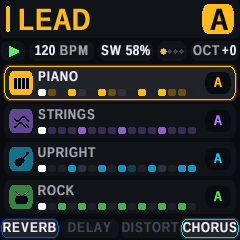
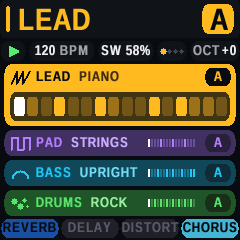
Home as colour pills (the chosen track open with its steps); the sound and kit browsers with a picture tile
- Home: a pill a track in its colour (its sign, name, sound, pattern); the chosen one lit and opened out with its 16
  steps big, the others slim with a thin strip; the pedals along the bottom filled with their colours when on
- INSTR / KIT: the type's picture (mountains, rings, blocks, dots), the type, group and USER slot as pills, the
  group's sounds as pills
- Pedal pages, the pedal board and the step recorder as they were
- Guide, user guide and screenshots updated

diff --git a/docs/index.html b/docs/index.html
@@ -106,8 +106,8 @@ footer a { color: var(--sub); }
     <p class="note">Press <kbd>PLAY</kbd> as soon as it starts: a short demo groove is loaded in pattern A of each track.</p>
   </div>
   <div class="screen">
-    <img src="guide/home.png" alt="QUARTET's home screen: a card per track in its colour, the chosen one glowing, its pedals along the bottom">
-    <p>The home screen: a card per track, the chosen one glowing; its pedals along the bottom.</p>
+    <img src="guide/home.png" alt="QUARTET's home screen: a colour pill per track, the chosen one open with its steps, its pedals along the bottom">
+    <p>The home screen: a pill per track, the chosen one open with its 16 steps; its pedals along the bottom.</p>
   </div>
 </div>
 
@@ -157,7 +157,7 @@ footer a { color: var(--sub); }
 
 <section id="band">
   <h2>The band</h2>
-  <p class="sub">Four tracks, each a card in the colour of what it plays (gold lead, violet pad, cyan bass, green drums) with its instrument on the badge: keys, waves, a bass guitar, a drum. The chosen card glows; a muted track turns red.</p>
+  <p class="sub">Four tracks, each a pill in the colour of what it plays (gold lead, violet pad, cyan bass, green drums) with its sign: a sawtooth, an arch, a square wave, dots. The chosen track's pill lights up and opens out; a muted track turns red.</p>
   <div class="split">
     <div>
       <table class="t">
@@ -179,7 +179,7 @@ footer a { color: var(--sub); }
         <div class="card"><h4>KNOB 2</h4><p>Swing, for the whole song: 50 % (straight) to 66 % (a heavy shuffle), a click a step; <b>SW</b> on the line under the title.</p></div>
         <div class="card"><h4>PLAY</h4><p>Every track starts together from step one, or stops.</p></div>
       </div>
-      <p>Each card shows the track's sound, the steps of its pattern (the one playing white) and the pattern in a pill. <b>A&gt;C</b> means pattern C is queued after A: it starts when A comes round. The bottom line shows the chosen track's four pedals, glowing in their colours when on.</p>
+      <p>Each pill shows the track's name, its sound and its pattern; the chosen one opens out with the 16 steps of the page it is playing, big (the step playing white), the others show theirs as a thin strip. <b>A&gt;C</b> means pattern C is queued after A: it starts when A comes round. The bottom line shows the chosen track's four pedals, filled with their colours when on.</p>
     </div>
     <div>
       <div class="shot"><img src="guide/slots.png" alt="The home screen with two leads, L1 and L2"><p>Two leads: the PAD slot switched to LEAD.</p></div>
@@ -223,7 +223,7 @@ footer a { color: var(--sub); }
   <div class="split" style="margin-top:28px">
     <div>
       <h3>The sound editor (<kbd>EDIT</kbd>)</h3>
-      <p>Press <kbd>EDIT</kbd> for the SOUND page of the chosen track. It opens on <b>INSTR</b>, with the track's slot on top (<b>SLOT 1</b>&ndash;<b>4</b>, as on the home screen, and its type beside it): a sound browser with the type at the top left (<kbd>KNOB 1</kbd>: lead, pad or bass), the groups under it (<kbd>KNOB 2</kbd>; an empty USER group is dimmed), the chosen group's sounds on the right (<kbd>KNOB 3</kbd>) with the one playing glowing, and underneath the USER slot to save to (<kbd>KNOB 4</kbd>). <kbd>ALGORITHM</kbd> chooses the page, <kbd>KNOB 1&ndash;4</kbd> edit it, <kbd>SELECT</kbd> moves to another track. <kbd>EDIT</kbd> again opens the <a href="#chain">signal chain</a>; <kbd>HOME</kbd> goes back.</p>
+      <p>Press <kbd>EDIT</kbd> for the SOUND page of the chosen track. It opens on <b>INSTR</b>, with the track's slot on top (<b>SLOT 1</b>&ndash;<b>4</b>, as on the home screen, and its type beside it): a sound browser with a picture for the type on the left (mountains for lead, rings for pad, blocks for bass, dots for drums), under it the type (<kbd>KNOB 1</kbd>: lead, pad or bass) and the group (<kbd>KNOB 2</kbd>) as pills and the USER slot to save to (<kbd>KNOB 4</kbd>); on the right the group's sounds as pills (<kbd>KNOB 3</kbd>), the one playing filled in the track's colour. <kbd>ALGORITHM</kbd> chooses the page, <kbd>KNOB 1&ndash;4</kbd> edit it, <kbd>SELECT</kbd> moves to another track. <kbd>EDIT</kbd> again opens the <a href="#chain">signal chain</a>; <kbd>HOME</kbd> goes back.</p>
       <table class="t grid4">
         <tr><th>Page</th><th>KNOB 1</th><th>KNOB 2</th><th>KNOB 3</th><th>KNOB 4</th></tr>
         <tr><td>INSTR</td><td>Type: lead, pad, bass</td><td>Group</td><td>Sound in the group</td><td>USER slot to save to</td></tr>
@@ -240,7 +240,7 @@ footer a { color: var(--sub); }
       <p>Tweak the sound, go to <b>INSTR</b> (or <b>KIT</b>), choose a USER slot with <kbd>KNOB 4</kbd> and press <kbd>REC</kbd> <b>twice</b> (the bottom line asks first). <b>SAVED USER 3</b> shows, and the track now plays your sound from the USER bank. Saving over a used slot replaces it. The USER bank is kept with your work and inside each saved project, and <i>clear all</i> leaves it alone.</p>
     </div>
     <div>
-      <div class="shot"><img src="guide/instr.png" alt="The INSTR page"><p>INSTR: groups on the left, the group's sounds on the right.</p></div>
+      <div class="shot"><img src="guide/instr.png" alt="The INSTR page"><p>INSTR: the type's picture, the type and group, the sounds.</p></div>
       <div class="shot" style="margin-top:18px"><img src="guide/editor.png" alt="The OSC page"><p>OSC: two pulse waves.</p></div>
       <div class="shot" style="margin-top:18px"><img src="guide/kit.png" alt="The KIT page"><p>Drums: the KIT page.</p></div>
       <div class="shot" style="margin-top:18px" id="chain"><img src="guide/chain.png" alt="The signal chain"><p>The signal chain: <kbd>EDIT</kbd> twice.</p></div>

diff --git a/firmware/src/quartet.c b/firmware/src/quartet.c
@@ -790,6 +790,89 @@ static void logo4(int32_t x, int32_t y)          /* QUARTET's mark: four slanted
     for (i = 0; i < 4u; i++)
         for (r = 0; r < 14; r++) cv_rect(x + (int32_t)i * 6 + (13 - r) / 3, y + r, 3, 1, rgbk(TRK_RGB[ORD[i]], 100));
 }
+static const char *text_fit(const char *s, int32_t maxw)   /* s cut to fit maxw pixels (FONT_S) */
+{
+    static char b[4][24];
+    static uint32_t n;
+    char *o = b[n++ & 3u];
+    uint32_t i = 0;
+    while (s[i] && i < 23u) { o[i] = s[i]; i++; }
+    o[i] = 0;
+    while (i > 1u && text_w(&FONT_S, o) > maxw) o[--i] = 0;
+    return o;
+}
+static void disc(int32_t cx, int32_t cy, int32_t r, uint16_t c);
+static void disc_clip(int32_t cx, int32_t cy, int32_t r, int32_t x0, int32_t y0, int32_t x1, int32_t y1, uint16_t c)
+{                                               /* a filled circle, only what falls inside x0..x1, y0..y1 */
+    int32_t dy;
+    for (dy = -r; dy <= r; dy++) {
+        int32_t yy = cy + dy, h, a, b;
+        if (yy < y0 || yy >= y1) continue;
+        h = isqrt_small(r * r - dy * dy);
+        a = cx - h < x0 ? x0 : cx - h;
+        b = cx + h >= x1 ? x1 - 1 : cx + h;
+        if (b >= a) cv_rect(a, yy, b - a + 1, 1, c);
+    }
+}
+static void thick(int32_t x0, int32_t y0, int32_t x1, int32_t y1, uint16_t c)   /* a line two pixels wide */
+{
+    cv_line(x0, y0, x1, y1, c); cv_line(x0 + 1, y0, x1 + 1, y1, c); cv_line(x0, y0 + 1, x1, y1 + 1, c);
+}
+static void glyph4(uint32_t kind, int32_t x, int32_t y, int32_t w, int32_t h, uint16_t c, uint16_t bg)
+{                                               /* a type's sign: 0 a sawtooth, 1 an arch, 2 a square wave, 3 dots */
+    int32_t a = w * 3 / 10, b = w * 65 / 100;
+    switch (kind & 3u) {
+    case 0: thick(x, y + h, x + a, y, c); thick(x + a, y, x + a, y + h, c); thick(x + a, y + h, x + b, y, c);
+            thick(x + b, y, x + b, y + h, c); thick(x + b, y + h, x + w, y, c); break;
+    case 1: disc_clip(x + w / 2, y + h, w / 2, x - 1, y - 1, x + w + 2, y + h, c);
+            disc_clip(x + w / 2, y + h, w / 2 - 2, x - 1, y - 1, x + w + 2, y + h, bg); break;
+    case 2: a = w / 3; b = w * 2 / 3;
+            thick(x, y + h, x, y, c); thick(x, y, x + a, y, c); thick(x + a, y, x + a, y + h, c); thick(x + a, y + h, x + b, y + h, c);
+            thick(x + b, y + h, x + b, y, c); thick(x + b, y, x + w, y, c); thick(x + w, y, x + w, y + h, c); break;
+    default: disc(x + w / 5, y + h / 3, w / 6, c); disc(x + w * 3 / 4, y + h / 4, w / 8, c);
+             disc(x + w / 2, y + h * 3 / 4, w / 5, c); disc(x + w * 9 / 10, y + h * 4 / 5, w / 10, c); break;
+    }
+}
+static void art4(uint32_t kind, int32_t x, int32_t y, int32_t w, int32_t h, const uint8_t *rgb)
+{                                               /* a picture tile in a colour: 0 mountains, 1 rings, 2 blocks, 3 dots */
+    static const uint8_t R1[7] = {100, 35, 70, 20, 62, 30, 55}, R2[6] = {100, 55, 85, 45, 70, 100};   /* the ridges (% down) */
+    uint16_t base = rgbm(rgb, 30), lo = rgbm(rgb, 62), md = rgbk(rgb, 100), hi = rgbl(rgb, 30);
+    int32_t i, k, x0 = x + 3, y0 = y + 3, x1 = x + w - 3, y1 = y + h - 3;
+    cv_rrect(x, y, w, h, 9, base);
+    switch (kind & 3u) {
+    case 0:                                     /* two ridges of mountains, the near one brighter */
+        for (i = x0; i < x1; i++) {
+            int32_t f = (i - x0) * 6 * 256 / (x1 - x0), s = f >> 8, r = f & 255, t1, t2;
+            if (s > 5) s = 5;
+            t1 = R1[s] + ((R1[s + 1] - R1[s]) * r >> 8);
+            f = (i - x0) * 5 * 256 / (x1 - x0); s = f >> 8; r = f & 255;
+            if (s > 4) s = 4;
+            t2 = R2[s] + ((R2[s + 1] - R2[s]) * r >> 8);
+            cv_rect(i, y0 + (y1 - y0) * t1 / 100, 1, (y1 - y0) * (100 - t1) / 100, lo);
+            cv_rect(i, y0 + (y1 - y0) * t2 / 100, 1, (y1 - y0) * (100 - t2) / 100, md);
+        }
+        break;
+    case 1:                                     /* three rings rising from the bottom */
+        for (k = 0; k < 3; k++)
+            disc_clip(x + w / 2, y1, (x1 - x0) * (62 - k * 16) / 100, x0, y0, x1, y1, k == 0 ? lo : k == 1 ? md : hi);
+        break;
+    case 2: {                                   /* blocks on a 4 x 4 grid */
+        static const uint8_t B[6][3] = {{0, 3, 0}, {1, 2, 1}, {2, 1, 2}, {3, 0, 1}, {1, 3, 0}, {2, 2, 0}};
+        int32_t q = (x1 - x0) / 4, r = (y1 - y0) / 4;
+        for (k = 0; k < 6; k++) cv_rrect(x0 + B[k][0] * q, y0 + B[k][1] * r, q, r, 2, B[k][2] == 0 ? lo : B[k][2] == 1 ? md : hi);
+        break;
+    }
+    default: {                                  /* dots of all sizes */
+        int32_t ww = x1 - x0, hh = y1 - y0, m = ww < hh * 2 ? ww : hh * 2;
+        disc(x0 + ww * 28 / 100, y0 + hh * 34 / 100, m * 13 / 100, md);
+        disc(x0 + ww * 72 / 100, y0 + hh * 30 / 100, m * 9 / 100, hi);
+        disc(x0 + ww * 50 / 100, y0 + hh * 68 / 100, m * 15 / 100, md);
+        disc(x0 + ww * 86 / 100, y0 + hh * 76 / 100, m * 6 / 100, lo);
+        disc(x0 + ww * 14 / 100, y0 + hh * 78 / 100, m * 6 / 100, hi);
+        break;
+    }
+    }
+}
 static void disc(int32_t cx, int32_t cy, int32_t r, uint16_t c)   /* a filled circle */
 {
     int32_t dy;
@@ -900,9 +983,11 @@ static void bottom_pedals(uint32_t trk)         /* home's bottom line: the chose
         while (nm[n] && n < 13u) { sh[n] = nm[n]; n++; }
         sh[n] = 0;
         while (n > 1u && text_w(&FONT_S, sh) > w - 1) sh[--n] = 0;   /* (as much of the name as fits) */
-        if (on) glow_card(x, 3, w, 19, 7, ped_rgb(d), C_PANEL2);   /* (on: it glows in the pedal's colour) */
-        else cv_rrect(x, 3, w, 19, 7, C_PANEL);
-        cv_text_bg(x + w / 2 - text_w(&FONT_S, sh) / 2, 4, &FONT_S, sh, on ? C_TXT : C_DIMC, on ? C_PANEL2 : C_PANEL);
+        {
+            uint16_t pc = on ? rgbk(ped_rgb(d), 100) : RGB(34, 34, 42);   /* (on: filled with the pedal's colour) */
+            cv_rrect(x, 3, w, 19, 9, pc);
+            cv_text_bg(x + w / 2 - text_w(&FONT_S, sh) / 2, 4, &FONT_S, sh, on ? C_BG : RGB(90, 90, 104), pc);
+        }
     }
     cv_blit(0, Y_BOT);
 }
@@ -1050,76 +1135,53 @@ static uint32_t syn_covers(uint32_t t, uint32_t pt, uint32_t s, uint32_t len)   
     return 0;
 }
 
-/* the home view: a card a track, LEAD PAD BASS DRUMS: a badge in its colour (its short name), its sound, the steps of
- * the page it is on (the step playing white), its pattern in a pill. The chosen card glows; a muted one is grey */
-static void icon_inst(int32_t x, int32_t y, uint32_t ty, uint16_t c)   /* an instrument, 16 x 14, in colour c */
-{
-    static const int8_t WAVE[15] = {0, 1, 2, 2, 2, 1, 0, -1, -2, -2, -2, -1, 0, 1, 2};
-    int32_t i;
-    switch (ty) {
-    case T_LEAD:                                /* a keyboard: four white keys, three black ones over them */
-        for (i = 0; i < 4; i++) cv_rect(x + 1 + i * 4, y + 2, 3, 11, c);
-        break;
-    case T_PAD:                                 /* two waves */
-        for (i = 0; i < 15; i++) { cv_rect(x + 1 + i, y + 4 + WAVE[i], 1, 2, c); cv_rect(x + 1 + i, y + 10 + WAVE[(i + 3) % 15], 1, 2, c); }
-        break;
-    case T_BASS:                                /* a bass guitar: the neck, the body */
-        cv_line(x + 14, y + 1, x + 6, y + 9, c); cv_line(x + 15, y + 1, x + 7, y + 9, c);
-        cv_rect(x + 13, y, 3, 2, c);
-        disc(x + 5, y + 10, 4, c); disc(x + 8, y + 8, 3, c);
-        break;
-    default:                                    /* a drum: the shell, two sticks over it */
-        cv_rrect(x + 2, y + 6, 13, 8, 3, c);
-        cv_line(x + 2, y + 1, x + 8, y + 6, c); cv_line(x + 15, y + 1, x + 9, y + 6, c);
-        break;
-    }
-}
+/* the home view: a pill a track, LEAD PAD BASS DRUMS (as on the screen) in its colour: its sign, its name, its sound,
+ * its pattern. The chosen track's pill is bright and opens out with the 16 steps of the page it is on (the step playing
+ * white); the others are slim, with a little strip of their steps. A muted track turns red */
 static uint32_t slot_nth(uint32_t t);
-#define H_HOME 152                              /* home's cards: down to the bottom bar (two halves of 76) */
+#define H_HOME 152                              /* home's pills: down to the bottom bar (two halves of 76) */
 static void draw_home(uint32_t sel, uint32_t run)
 {
-    uint32_t r, s, pass, half;
+    uint32_t r, s, half;
     for (half = 0; half < 2u; half++) {
-    cv_begin(240, H_HOME / 2, C_BG);
-    cv_oy = -(int32_t)half * (H_HOME / 2);
-    for (pass = 0; pass < 2u; pass++)           /* (the chosen card last: its glow over the gap) */
+        int32_t y = 0;
+        cv_begin(240, H_HOME / 2, C_BG);
+        cv_oy = -(int32_t)half * (H_HOME / 2);
         for (r = 0; r < NTRK; r++) {
             uint32_t t = SEQ_ORDER[r], me = t == sel;
-            int32_t y = (int32_t)r * 38 + 2, pw, sw, x0 = 38, x1;
             uint32_t pt = play_pat[t] % NPAT, len = pat_len(t, pt), pos = trk_pos[t], page = run ? pos / PAGE : 0u;
             const uint8_t *rgb = trk_rgb(t);
-            uint16_t col = rgbk(rgb, 100), card = me ? C_PANEL2 : C_PANEL, bdg = me ? col : rgbm(rgb, 55);
-            const char *nm = (t < NSYN ? sound_name(TTYPE(t), set.snd[t].preset) : kit_name());
+            uint16_t col = rgbk(rgb, 100), bg = me ? col : rgbm(rgb, 34), ink = me ? C_BG : col;
+            uint16_t sub = me ? rgbm(rgb, 22) : rgbl(rgb, 35);
+            int32_t h = me ? 62 : 26, pw, nx, lim;
             char lt[4], *q;
-            if (me != pass) continue;
             q = put_pat(lt, t); *q = 0;
-            if (me) glow_card(4, y, 232, 34, 8, rgb, card);
-            else cv_rrect(4, y, 232, 34, 8, card);
-            cv_rrect(9, y + 5, 24, 24, 6, bdg);
-            icon_inst(13, y + 10, TTYPE(t), C_BG);   /* (what it plays) */
-            if (slot_nth(t)) {                  /* two of a kind: L1, L2 before the sound */
-                int32_t nx = cv_text_bg(x0, y + 3, &FONT_S, slot_short(t), col, card);
-                cv_text_bg(nx + 5, y + 3, &FONT_S, nm, me ? C_TXT : C_SUB, card);
-            } else cv_text_bg(x0, y + 3, &FONT_S, nm, me ? C_TXT : C_SUB, card);
+            cv_rrect(4, y, 232, h, 10, bg);
+            glyph4(TTYPE(t), 11, y + 7, 18, 12, ink, bg);
+            nx = cv_text_bg(36, y + 5, &FONT_S, slot_name(t), ink, bg);
             pw = text_w(&FONT_S, lt) + 12;
             if (pw < 26) pw = 26;
-            cv_rrect(231 - pw, y + 6, pw, 22, 8, C_BG);
-            cv_text_bg(231 - pw / 2 - text_w(&FONT_S, lt) / 2, y + 9, &FONT_S, lt, col, C_BG);
-            x1 = 231 - pw - 6;
-            sw = (x1 - x0) / 16;
-            for (s = 0; s < PAGE; s++) {        /* the page's 16 steps, a little bar each */
+            lim = me ? 231 - pw - 6 : 145;
+            cv_text_bg(nx + 8, y + 5, &FONT_S, text_fit(t < NSYN ? sound_name(TTYPE(t), set.snd[t].preset) : kit_name(), lim - nx - 8),
+                       sub, bg);
+            cv_rrect(231 - pw, y + 4, pw, 18, 7, me ? C_BG : rgbm(rgb, 18));
+            cv_text_bg(231 - pw / 2 - text_w(&FONT_S, lt) / 2, y + 5, &FONT_S, lt, col, me ? C_BG : rgbm(rgb, 18));
+            if (me) cv_rrect(10, y + 28, 220, 29, 7, rgbm(rgb, 24));   /* (the chosen: its steps, big) */
+            for (s = 0; s < PAGE; s++) {
                 uint32_t st = page * PAGE + s, on = 0;
                 uint16_t sc;
                 if (st >= len) continue;
                 if (t == T_DRUMS) { uint32_t d; for (d = 0; d < NDR; d++) on |= dbit(pt, d, st); on *= 2u; }
                 else on = syn_covers(t, pt, st, len);
-                sc = on == 2u ? (me ? col : rgbm(rgb, 75)) : on == 1u ? rgbm(rgb, me ? 40u : 30u) : s % 4u ? C_EMPTY : C_EMPTY4;
-                if (run && st == pos) sc = on ? C_WHITE : C_HEADC;
-                cv_rrect(x0 + (int32_t)s * sw, y + 23, sw - 2, 7, 2, sc);
+                sc = on == 2u ? col : on == 1u ? rgbm(rgb, 60) : rgbm(rgb, me ? 42u : 55u);
+                if (run && st == pos) sc = C_WHITE;
+                if (me) cv_rrect(14 + (int32_t)(s * 27u / 2u), y + 33, 11, 19, 3, sc);
+                else cv_rect(148 + (int32_t)s * 3, y + 9, 2, 8, on || (run && st == pos) ? sc : rgbm(rgb, 58));
             }
+            y += h + 4;
         }
-    cv_oy = 0;
-    cv_blit(0, Y_VIEW + half * (H_HOME / 2));
+        cv_oy = 0;
+        cv_blit(0, Y_VIEW + half * (H_HOME / 2));
     }
 }
 
@@ -1708,58 +1770,48 @@ static void draw_instr(uint32_t trk)
 {
     static const char *const TAB[NPAGE + 1u] = {"INSTR", "MAIN", "OSC", "ENV", "LFO"};
     static const char *const DTAB[NDR + 1u] = {"KIT", "BD", "SD", "HH", "OH", "CP", "PC"};
-
     static const uint16_t YEL = RGB(255, 200, 60);
     const uint8_t *rgb = trk_rgb(trk);
-    uint16_t col = rgbk(rgb, 100);
+    uint16_t col = rgbk(rgb, 100), dim = RGB(28, 28, 34);
     uint8_t ids[40], sub[40];
-    uint32_t now = trk < NSYN ? set.snd[trk].preset : set.dkit, bk = id_bank(trk, now), n, m = 0, at = 0, i, half, top, b;
-    uint32_t ntab = trk < NSYN ? NPAGE + 1u : NDR + 1u, inb[NBANK] = {0, 0, 0, 0, 0};
+    uint32_t now = trk < NSYN ? set.snd[trk].preset : set.dkit, bk = id_bank(trk, now), n, m = 0, at = 0, i, half, top;
+    uint32_t ntab = trk < NSYN ? NPAGE + 1u : NDR + 1u;
     const char *const *bkn = trk < NSYN ? BANK_NAME[TTYPE(trk)] : KBANK_NAME;
     uint32_t used = trk < NSYN ? set.mu.ub.snd[TTYPE(trk)][usr_slot % NUSND].preset != 0u : set.mu.ub.kit[usr_slot % NUKIT].used != 0u;
-    char ty[16], us[16], *p;
+    char ty[16], gr[20], us[16], *p;
     n = trk < NSYN ? sound_list(TTYPE(trk), ids, now) : kit_list(ids, now);
-    for (i = 0; i < n; i++) {
-        if (id_bank(trk, ids[i]) < NBANK) inb[id_bank(trk, ids[i])]++;
-        if (id_bank(trk, ids[i]) == bk) { if (ids[i] == now) at = m; sub[m++] = ids[i]; }
-    }
-    top = at > 2u ? at - 2u : 0u;               /* the list: seven of the bank's sounds, the one playing among them */
-    if (m >= 7u && top + 7u > m) top = m - 7u;
-    if (m < 7u) top = 0;
-    if (trk < NSYN) { p = put(ty, "< "); p = put(p, (TYPE_NAME[TTYPE(trk)])); *put(p, " >") = 0; } else *put(ty, "DRUMS") = 0;
+    for (i = 0; i < n; i++) if (id_bank(trk, ids[i]) == bk) { if (ids[i] == now) at = m; sub[m++] = ids[i]; }
+    top = at > 2u ? at - 2u : 0u;               /* the list: six of the group's sounds, the one playing among them */
+    if (m >= 6u && top + 6u > m) top = m - 6u;
+    if (m < 6u) top = 0;
+    if (trk < NSYN) { p = put(ty, "< "); p = put(p, TYPE_NAME[TTYPE(trk)]); *put(p, " >") = 0; } else *put(ty, "DRUMS") = 0;
+    p = put(gr, "< "); p = put(p, bk < NBANK ? bkn[bk] : "OLDER"); *put(p, " >") = 0;
     if (usr_ask) { p = put(us, "SAVE U"); *p++ = (char)('1' + usr_slot); *p++ = '?'; *p = 0; }
-    else { p = put(us, "U"); *p++ = (char)('1' + usr_slot); p = put(p, used ? " USED" : " EMPTY"); *p = 0; }
+    else { p = put(us, "SAVE U"); *p++ = (char)('1' + usr_slot); p = put(p, used ? " *" : ""); *p = 0; }
     for (half = 0; half < 2u; half++) {
         cv_begin(240, H_PEDAL / 2, C_BG);
         cv_oy = -(int32_t)half * (H_PEDAL / 2);
         for (i = 0; i < ntab; i++) {            /* the pages, as pills, INSTR lit */
             int32_t tw = 232 / (int32_t)ntab, tx = 4 + (int32_t)i * tw;
             const char *tn = trk < NSYN ? TAB[i] : DTAB[i];
-            cv_rrect(tx + 1, 2, tw - 3, 20, 10, i == 0u ? col : C_PANEL);
-            cv_text_bg(tx + tw / 2 - 1 - text_w(&FONT_S, tn) / 2, 4, &FONT_S, tn, i == 0u ? C_BG : C_SUB, i == 0u ? col : C_PANEL);
+            cv_rrect(tx + 1, 2, tw - 3, 20, 10, i == 0u ? col : dim);
+            cv_text_bg(tx + tw / 2 - 1 - text_w(&FONT_S, tn) / 2, 4, &FONT_S, tn, i == 0u ? C_BG : C_SUB, i == 0u ? col : dim);
         }
-        cv_rrect(4, 28, 80, 134, 8, C_PANEL);   /* the banks (K2); the type (K1); the USER slot (K4) */
-        cv_rrect(8, 32, 72, 16, 8, C_BG);        /* K1: the type */
-        cv_text_bg(44 - text_w(&FONT_S, ty) / 2, 32, &FONT_S, ty, trk < NSYN ? C_TXT : C_SUB, C_BG);
-        for (b = 0; b < NBANK; b++) {           /* K2: the groups, then USER */
-            int32_t y = 53 + (int32_t)b * 18;
-            uint32_t me = b == bk;
-            if (me) glow_card(8, y, 72, 16, 6, rgb, C_PANEL2);
-            cv_text_bg(44 - text_w(&FONT_S, bkn[b]) / 2, y, &FONT_S, bkn[b], me ? C_TXT : inb[b] ? C_SUB : C_DIMC, me ? C_PANEL2 : C_PANEL);
-        }
-        cv_rrect(8, 146, 72, 16, 8, usr_ask ? YEL : C_BG);
-        cv_text_bg(44 - text_w(&FONT_S, us) / 2, 146, &FONT_S, us, usr_ask ? C_BG : used ? C_TXT : C_SUB, usr_ask ? YEL : C_BG);
-        cv_rrect(88, 28, 148, 134, 8, C_PANEL); /* the bank's sounds (K3) */
-        for (i = 0; i < 7u && top + i < m; i++) {
+        art4(TTYPE(trk), 4, 26, 86, 62, rgb);  /* the type's picture */
+        cv_rrect(4, 92, 86, 18, 9, rgbm(rgb, 30));   /* K1 the type, K2 the group */
+        cv_text_bg(47 - text_w(&FONT_S, ty) / 2, 93, &FONT_S, ty, trk < NSYN ? col : rgbl(rgb, 30), rgbm(rgb, 30));
+        cv_rrect(4, 113, 86, 18, 9, col);
+        cv_text_bg(47 - text_w(&FONT_S, text_fit(gr, 82)) / 2, 114, &FONT_S, text_fit(gr, 82), C_BG, col);
+        cv_rrect(4, 136, 86, 22, 11, usr_ask ? YEL : C_BG);   /* K4 the USER slot (REC twice: save) */
+        if (!usr_ask) { cv_rrect(4, 136, 86, 22, 11, col); cv_rrect(5, 137, 84, 20, 10, C_BG); }
+        cv_text_bg(47 - text_w(&FONT_S, us) / 2, 139, &FONT_S, us, usr_ask ? C_BG : col, usr_ask ? YEL : C_BG);
+        for (i = 0; i < 6u && top + i < m; i++) {   /* K3: the group's sounds */
             uint32_t id = sub[top + i], me = top + i == at;
-            int32_t y = 33 + (int32_t)i * 18;
-            const char *nm = (trk < NSYN ? sound_name(TTYPE(trk), id) : kit_name_id(id));
-            if (me) {
-                glow_card(92, y, 140, 17, 5, rgb, C_PANEL2);
-                cv_line(212, y + 9, 215, y + 4, col); cv_line(215, y + 4, 218, y + 13, col);   /* (a little wave) */
-                cv_line(218, y + 13, 221, y + 5, col); cv_line(221, y + 5, 224, y + 9, col);
-            }
-            cv_text_bg(100, y, &FONT_S, nm, me ? C_TXT : C_SUB, me ? C_PANEL2 : C_PANEL);
+            int32_t y = 26 + (int32_t)i * 22;
+            const char *nm = trk < NSYN ? sound_name(TTYPE(trk), id) : kit_name_id(id);
+            cv_rrect(94, y, 142, 20, 10, me ? col : dim);
+            cv_text_bg(104, y + 2, &FONT_S, text_fit(nm, me ? 104 : 124), me ? C_BG : RGB(200, 200, 212), me ? col : dim);
+            if (me) glyph4(TTYPE(trk), 213, y + 6, 15, 8, C_BG, col);
         }
         cv_oy = 0;
         cv_blit(0, Y_PEDAL + half * (H_PEDAL / 2));

diff --git a/docs/USER_GUIDE.md b/docs/USER_GUIDE.md
@@ -9,11 +9,11 @@ Quartet is a four-track groovebox with **lead, pads/chords, bass and drums**, 72
 
 ## Instruments and home screen
 
-**Lead** (gold) plays melodies; **pads** (violet) plays pads and chords; **bass** (cyan) plays basslines; **drums** (green) has six percussion voices. Each home card shows its instrument (keys, waves, a bass guitar, a drum). Muted instruments turn red.
+**Lead** (gold) plays melodies; **pads** (violet) plays pads and chords; **bass** (cyan) plays basslines; **drums** (green) has six percussion voices. Each home pill shows its sign (a sawtooth, an arch, a square wave, dots). Muted instruments turn red.
 
 Turn **SELECT** to choose an instrument and **ALGORITHM** to choose its sound or drum kit (one click per choice, through every group in turn; the new sound's name shows, without playing a test note). Play the keys; for drums, the first six white keys play the six sounds. **OCT− / OCT+** change octave (held half a second they move the whole pattern you're editing down or up an octave) and **MASTER** sets overall volume. **PLAY** starts or stops all instruments from step one.
 
-The **home screen** shows the selected instrument and pattern (A–J), tempo, beat lights and octave, then a card per track: its badge, its sound, the steps of its pattern (the playing step white) and its pattern. The chosen card glows. The bottom line shows the chosen track's four pedals, glowing in their colours when on. **A > C** means pattern C is queued after A.
+The **home screen** shows the selected instrument and pattern (A–J), tempo, beat lights and octave, then a pill per track in its colour: its sign, its name, its sound and its pattern. The chosen track's pill lights up and opens out with the 16 steps of the page it is playing (the playing step white); the others show theirs as a thin strip. The bottom line shows the chosen track's four pedals, filled with their colours when on. **A > C** means pattern C is queued after A.
 
 ![Quartet screens](screens.png)
 
@@ -104,7 +104,7 @@ Each type has its own sounds: a slot switched to BASS chooses from the bass soun
 
 The drum kits are synthesised, except the **LM-1**, which plays samples of a real Linn LM-1; on it the CLAP and PERC keys are its **low and high toms** (TL / TH on the drum grid). PERC is a different instrument per kit: a conga on CR-78, a shaker on Mini Pops and 606, a high tom on 808 and a low tom on Lo-Fi.
 
-**Press EDIT** for the **SOUND** page, the in-depth sound editor for the chosen instrument (the button lights). It opens on the **INSTR** page, with the track's slot on top (**SLOT 1–4**, as on the home screen, its type beside it): a sound browser with the type at the top left (**KNOB1**: lead, pad or bass), the groups under it (**KNOB2**; an empty USER group is dimmed), the chosen group's sounds on the right (**KNOB3**) with the one playing glowing, and the USER slot to save to underneath (**KNOB4**). **SELECT** moves to another instrument's page, **ALGORITHM** chooses the page, **KNOB1–4** edit it. **EDIT** again opens the **signal chain** (below), and once more goes home; **HOME** goes home at any time:
+**Press EDIT** for the **SOUND** page, the in-depth sound editor for the chosen instrument (the button lights). It opens on the **INSTR** page, with the track's slot on top (**SLOT 1–4**, as on the home screen, its type beside it): a sound browser with a picture for the type on the left (mountains for lead, rings for pad, blocks for bass, dots for drums), under it the type (**KNOB1**: lead, pad or bass) and the group (**KNOB2**) as pills and the USER slot to save to (**KNOB4**); on the right the group's sounds as pills (**KNOB3**), the one playing filled in the track's colour. **SELECT** moves to another instrument's page, **ALGORITHM** chooses the page, **KNOB1–4** edit it. **EDIT** again opens the **signal chain** (below), and once more goes home; **HOME** goes home at any time:
 
 | Page | KNOB1 | KNOB2 | KNOB3 | KNOB4 |
 |---|---|---|---|---|
